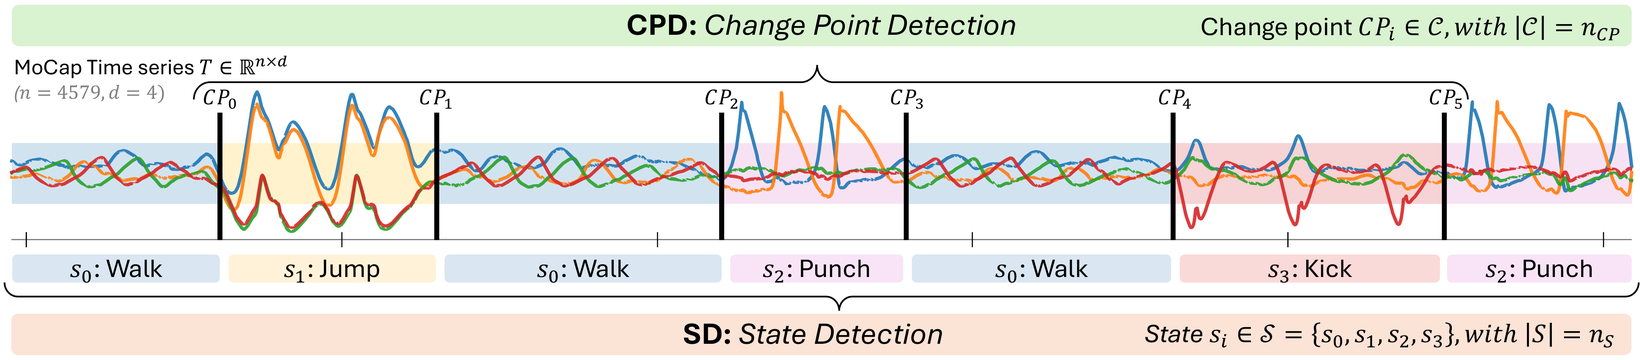
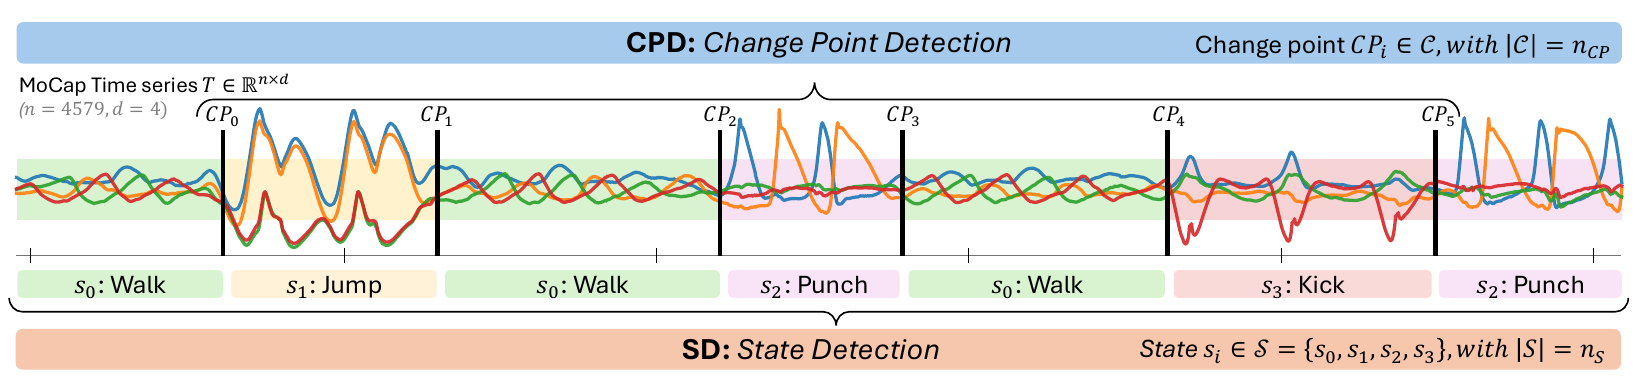
docs: update the README figures to the camera-ready paper
The tasks figure and the taxonomy take the colours of the result figures
(CPD blue, SD orange); the taxonomy column of binary segmentation is now
"Top-down" and the Bayesian one drops "(DP)". 13 of the 26 methods were
absent from existing toolkits, the R package changepoint included.

diff --git a/README.md b/README.md
@@ -73,7 +73,7 @@ that implements the methods of the benchmark behind one `fit`/`predict` API.
 - **26 algorithms** spanning five decades, organised by how they search the
   segmentation and what must stay the same within a segment. A **main pool**
   of 21 methods (15 CPD, 6 SD) runs on every series and gives the ranking; an
-  **extended-scope pool** gathers the 5 methods that cannot. 14 of them were
+  **extended-scope pool** gathers the 5 methods that cannot. 13 of them were
   absent from existing toolkits and were reimplemented or adapted in `tsseg`.
 - **Two evaluation axes.** Each method runs its **Default** configuration and
   a **parameter grid** (tuned and worst-case scores per dataset, and the
